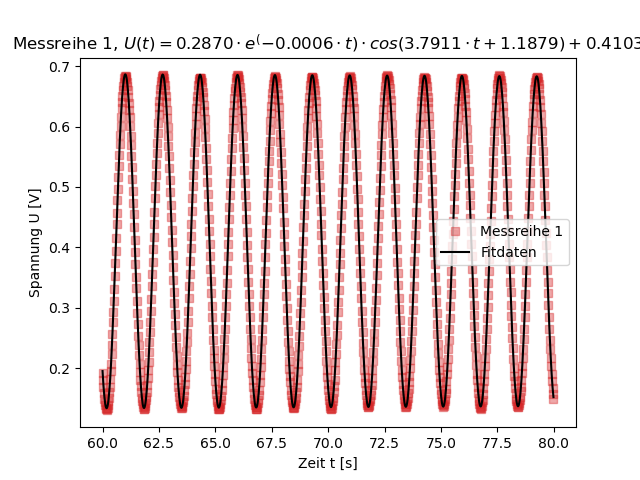
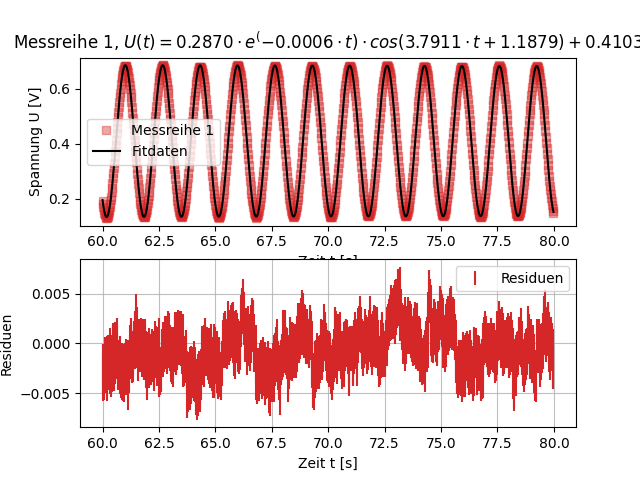
residuen und chi2/dof

diff --git a/V2_Mechanik/Valentin/auswertung_valentin.py b/V2_Mechanik/Valentin/auswertung_valentin.py
@@ -1,4 +1,5 @@
 import numpy as np
+import uncertainties as un
 from scipy.optimize import curve_fit
 import matplotlib.pyplot as plt
 from pathlib import Path
@@ -18,7 +19,7 @@ messung_rauschen     = cassy_daten_rauschen.messung(1)
 print(CassyDaten(DATEN_Messreihen).info())
 print(cassy_daten_rauschen.info())
 
-def auswertung_messreihe(DATEN, i, trim_vorne=0, trim_hinten=-1, plot_intervall=[3000,4000]):
+def auswertung_messreihe(DATEN, i, rausch_sigma=None, trim_vorne=0, trim_hinten=-1, plot_intervall=[3000,4000]):
 
     print(f'\nAuswertung {i}:')
     messung = CassyDaten(DATEN).messung(i)
@@ -29,27 +30,53 @@ def auswertung_messreihe(DATEN, i, trim_vorne=0, trim_hinten=-1, plot_intervall=
     def f(t, A, B, w, phi, y_0):
         return A * np.exp(-B * t) * np.cos(w * t + phi) + y_0
     
-    popt, pcov = curve_fit(f, t, U, p0=[U.max(), 0.1, 2 * np.pi, 0, np.mean(U)])
-
+    popt, pcov = curve_fit(f, t, U, p0=[U.max(), 0.1, 2 * np.pi, 0, np.mean(U)], sigma=rausch_sigma)
+    perr = np.sqrt(np.diag(pcov))
+    
     A_fit, B_fit, w_fit, phi_fit, y_0_fit = popt
+    T_fit = 2 * np.pi / w_fit
+    
+    fit = f(t, *popt)
+    
+    chiq = 0
+    for j in range(len(U)):
+        chiq += ((U[j] - fit[j]) / rausch_sigma)**2
+    
+    dof = len(U) - len(popt)
 
+    # A_fit, T_fit, phi_fit, B_fit, y_0_fit, T_0, chiq, dof = analyse.fit_gedaempfte_schwingung(t, U, ey=np.ones(len(U)))
+    # popt = (A_fit, B_fit, 2 * np.pi / T_fit, phi_fit, y_0_fit)
+    
     print(f'U_0 = {A_fit:.4f}')
     print(f'delta = {B_fit:.4f}')
-    print(f'w = {w_fit:.4f}')
-    print(f'T = {2 * np.pi / w_fit:.4f}')
+    print(f'w = {2 * np.pi / T_fit:.4f}')
+    print(f'T = {T_fit:.4f}')
     print(f'phi = {phi_fit:.4f}')
     print(f'y_0 = {y_0_fit:.4f}')
+    print(f'Chiq / dof = {chiq/dof}')
+    print(f'dof = {dof}')
 
-    fig, ax = plt.subplots()
+    fig, [ax, rs] = plt.subplots(2)
     ax.plot(t[plot_intervall[0]:plot_intervall[1]], U[plot_intervall[0]:plot_intervall[1]], marker='s', ls='', label=f'Messreihe {i}', color='tab:red', alpha=0.4)
     ax.plot(t[plot_intervall[0]:plot_intervall[1]], f(t, *popt)[plot_intervall[0]:plot_intervall[1]], color='0', label='Fitdaten')
     ax.set_xlabel('Zeit t [s]')
     ax.set_ylabel('Spannung U [V]')
-    ax.set_title(f'Messreihe {i}, $U(t)={A_fit:.4f}\cdot e^(-{B_fit:.4f}\cdot t)\cdot cos({w_fit:.4f}\cdot t + {phi_fit:.4f}) + {y_0_fit:.4f}$')
+    ax.set_title(f'Messreihe {i}, $U(t)={A_fit:.4f}\cdot e^(-{B_fit:.4f}\cdot t)\cdot cos({2 * np.pi / T_fit:.4f}\cdot t + {phi_fit:.4f}) + {y_0_fit:.4f}$')
     ax.legend()
+    inter = 1
+    rs.errorbar(t[plot_intervall[0]:plot_intervall[1]:inter],
+                (U - f(t, *popt))[plot_intervall[0]:plot_intervall[1]:inter],
+                ls='',
+                color='tab:red',
+                yerr=rausch_sigma,
+                label='Residuen')
+    rs.set_xlabel('Zeit t [s]')
+    rs.set_ylabel('Residuen')
+    rs.grid(True, alpha=0.8)
+    rs.legend()
     fig.savefig(OUTPUT / f'MessungPlusFit{i}')
     plt.close(fig)
-    return popt
+    return w_fit, chiq/dof
 
 def rauschmessung(DATEN, dateiname, trim_vorne, trim_hinten, bins=25):
     messung = CassyDaten(DATEN).messung(1)
@@ -77,13 +104,16 @@ mittel, sigma = rauschmessung(DATEN_rauschen, 'Rauschmessung', 10, -1)
 print(f'U = ({mittel:.4f}+-{sigma:.4f})V')
 
 omegas = []
+chiqs  = []
 for i in range(1, 11):
 
-    fit_daten = auswertung_messreihe(DATEN_Messreihen, i)
+    fit_daten = auswertung_messreihe(DATEN_Messreihen, i, plot_intervall=[3000,4000], rausch_sigma=sigma)
 
-    omegas.append(fit_daten[2])
+    omegas.append(fit_daten[0])
+    chiqs.append(fit_daten[1])
 
 omega_mean = np.mean(omegas)
 omega_std  = np.std(omegas, ddof=1)
 
 print(f'\nomega = ({omega_mean:.4f}+-{omega_std:.4f}) 1/s')
+print(f'chiq/dof mittel = {np.mean(chiqs):.5f}')
